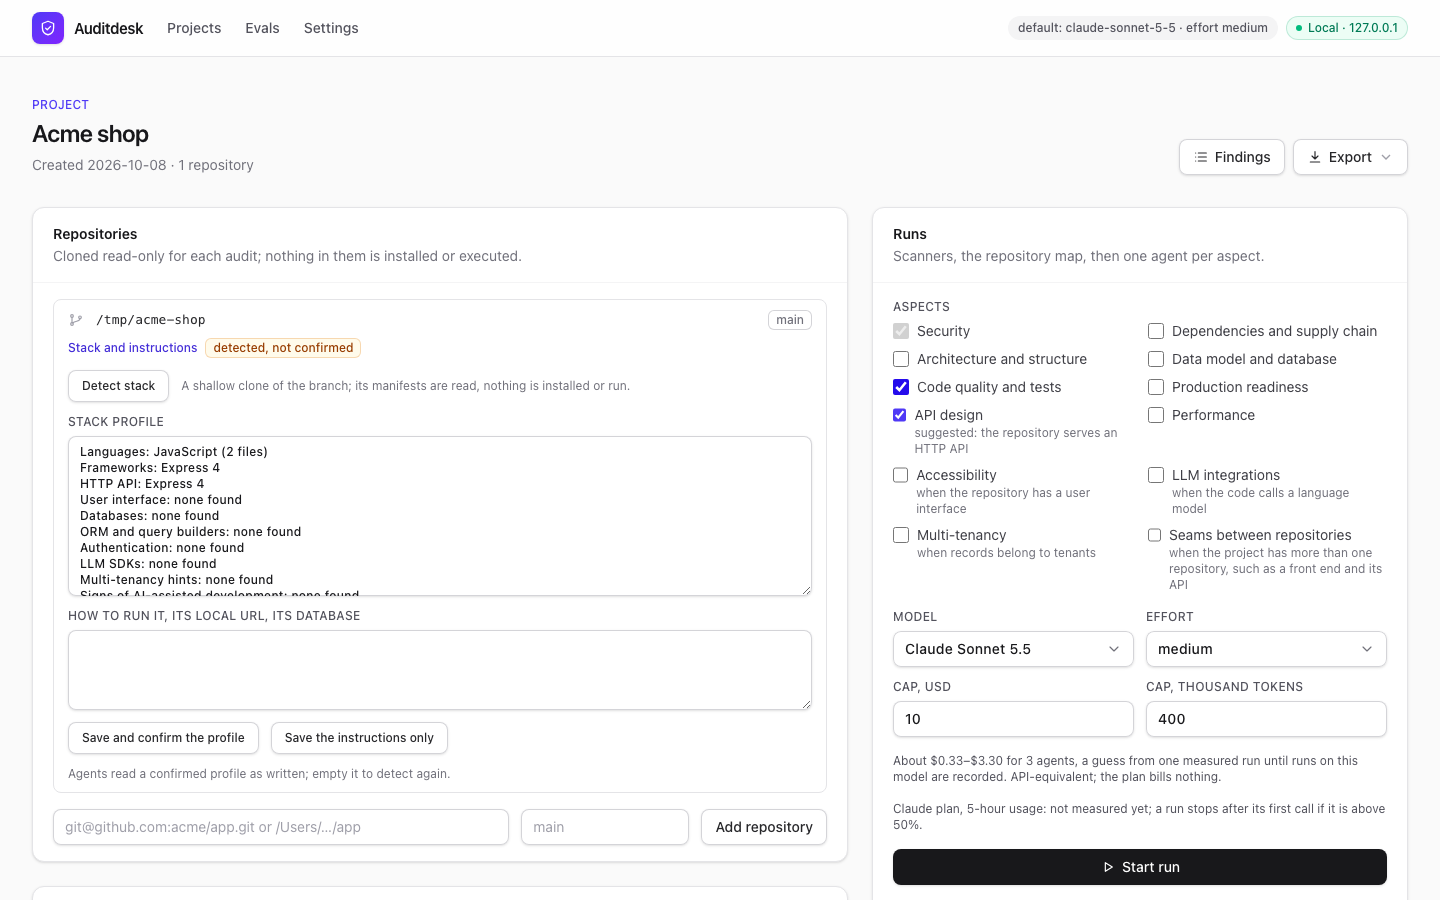
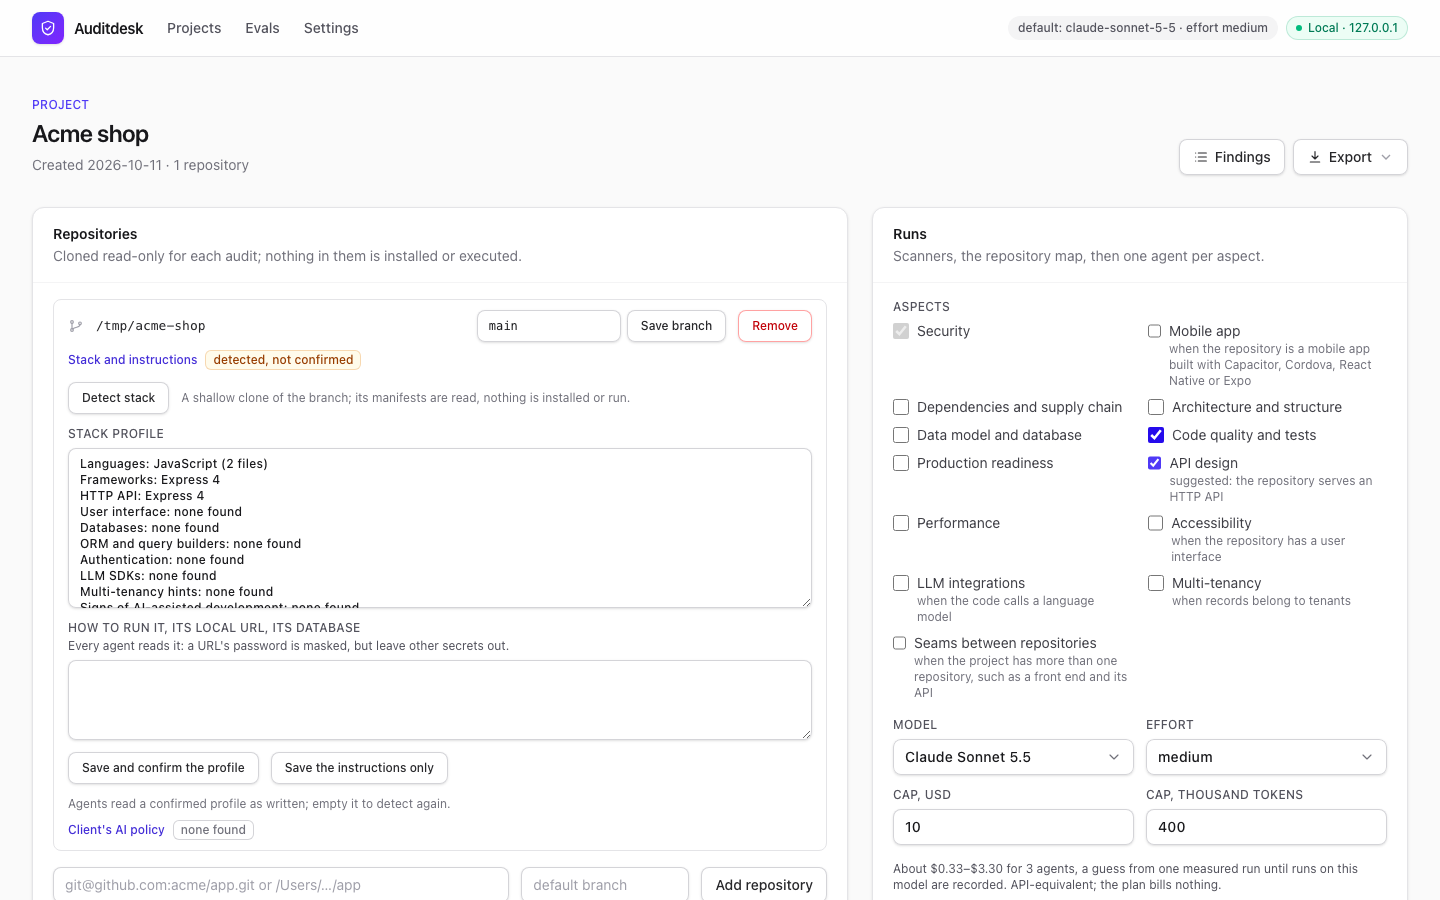
docs(screenshots): the README's shots retaken, and the same shots at another width on request
The project page now shows the one Export button, the Mobile app aspect and the client's AI
policy. AUDITDESK_SCREENSHOTS_WIDTH and AUDITDESK_SCREENSHOTS_OUT take the same shots at another
window width into another folder, as naidenko.dev/audit shows them at 1136.

diff --git a/e2e/screenshots.spec.ts b/e2e/screenshots.spec.ts
@@ -5,13 +5,16 @@ import { tmpdir } from "node:os";
 import { join } from "node:path";
 
 // The README's screenshots, from a replayed run on the sample repository: no client data.
-// Run with AUDITDESK_SCREENSHOTS=1 pnpm test:e2e -g screenshots.
+// Run with AUDITDESK_SCREENSHOTS=1 pnpm test:e2e -g screenshots. AUDITDESK_SCREENSHOTS_WIDTH and
+// AUDITDESK_SCREENSHOTS_OUT take the same shots at another window width into another folder, as
+// naidenko.dev/audit shows them at 1136.
 test.skip(!process.env.AUDITDESK_SCREENSHOTS, "screenshots are taken on request");
 
 // One clock and one repository path in every shot, so a retake changes only what changed.
-test.use({ timezoneId: "UTC" });
+const width = Number(process.env.AUDITDESK_SCREENSHOTS_WIDTH) || 1440;
+test.use({ timezoneId: "UTC", viewport: { width, height: 900 } });
 const SAMPLE = "/tmp/acme-shop";
-const out = "docs/screenshots";
+const out = process.env.AUDITDESK_SCREENSHOTS_OUT ?? "docs/screenshots";
 
 test("screenshots for the README", async ({ page }) => {
     mkdirSync(out, { recursive: true });
